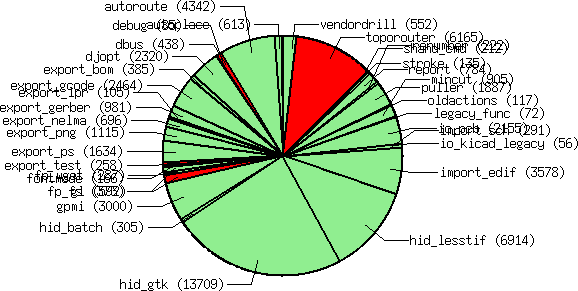
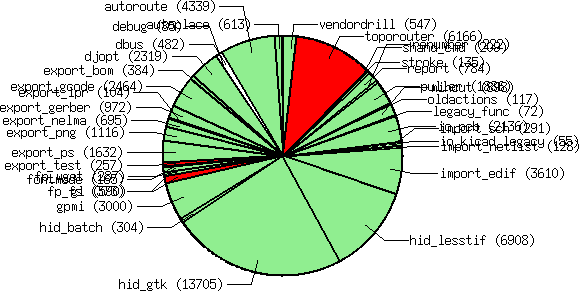
[pcb-rnd] -Update: mods3 charts
git-svn-id: svn://repo.hu/pcb-rnd/trunk@2498 1d61de99-560f-4dba-8957-1e505d42358b

diff --git a/doc-rnd/mods3/index.html b/doc-rnd/mods3/index.html
@@ -63,14 +63,14 @@ Below is a table with the summary of core plugins.
 <td bgcolor="lightgreen"> buildin
 <td> (feature)
 <td> Automatically place elements. 
-<tr><th align=left>autoroute<td>4342
+<tr><th align=left>autoroute<td>4339
 <td bgcolor="lightgreen" > works
 <td bgcolor="lightgreen"> buildin
 <td> (feature)
 <td> Automatically route selected or all rats. This is the original autorouter. 
-<tr><th align=left>dbus<td>438
-<td bgcolor="red" > disabled
-<br> (TODO: needs scconfig support)
+<tr><th align=left>dbus<td>482
+<td  > WIP
+<br> (needs to install the xml?)
 <td bgcolor="red"> disabled
 <td> (feature)
 <td> Remote control PCB using DBUS. 
@@ -79,12 +79,12 @@ Below is a table with the summary of core plugins.
 <td bgcolor="red"> disabled
 <td> (feature)
 <td> Actions that help developer to debug pcb core. These are not in core because end users normally don't need these. As a plugin, due to dynamic loading, it can be dropped on an existing pcb installation with minimal risk of scaring away a reproducible bug. 
-<tr><th align=left>djopt<td>2320
+<tr><th align=left>djopt<td>2319
 <td bgcolor="lightgreen" > works
 <td bgcolor="lightgreen"> buildin
 <td> (feature)
 <td> Various board optimization algorithms. 
-<tr><th align=left>export_bom<td>385
+<tr><th align=left>export_bom<td>384
 <td bgcolor="lightgreen" > works
 <td bgcolor="lightgreen"> buildin
 <td> export
@@ -94,38 +94,38 @@ Below is a table with the summary of core plugins.
 <td bgcolor="lightgreen"> buildin
 <td> export
 <td> Export to gcode 
-<tr><th align=left>export_gerber<td>981
+<tr><th align=left>export_gerber<td>972
 <td bgcolor="lightgreen" > works
 <td bgcolor="lightgreen"> buildin
 <td> export
 <td> Export to gerber 
-<tr><th align=left>export_lpr<td>105
+<tr><th align=left>export_lpr<td>104
 <td bgcolor="lightgreen" > works
 <td bgcolor="lightgreen"> buildin
 <td> export
 <td> Export to lpr (using export_ps to generate postscript) 
-<tr><th align=left>export_nelma<td>696
+<tr><th align=left>export_nelma<td>695
 <td bgcolor="lightgreen" > works
 <td bgcolor="lightgreen"> buildin
 <td> export
 <td> Export to nelma (Numerical capacitance calculator) 
-<tr><th align=left>export_png<td>1115
+<tr><th align=left>export_png<td>1116
 <td bgcolor="lightgreen" > works
 <td bgcolor="lightgreen"> buildin
 <td> export
 <td> Export to png, gif and jpeg 
-<tr><th align=left>export_ps<td>1634
+<tr><th align=left>export_ps<td>1632
 <td bgcolor="lightgreen" > works
 <td bgcolor="lightgreen"> buildin
 <td> export
 <td> Export postscript or embedded postscript. 
-<tr><th align=left>export_test<td>258
+<tr><th align=left>export_test<td>257
 <td bgcolor="red" > disabled
 <br> (work in progress)
 <td bgcolor="lightgreen"> buildin
 <td> export
 <td> A thin layer of code to dump exporter calls for testing the HID exporter API. 
-<tr><th align=left>fontmode<td>166
+<tr><th align=left>fontmode<td>165
 <td bgcolor="lightgreen" > works
 <td bgcolor="lightgreen"> buildin
 <td> (feature)
@@ -140,7 +140,7 @@ Below is a table with the summary of core plugins.
 <td bgcolor="lightgreen"> buildin
 <td> fp
 <td> Footprint: get static (file) footprints from the web, e.g. from http://gedasymbols.org 
-<tr><th align=left>gl<td>592
+<tr><th align=left>gl<td>590
 <td bgcolor="red" > disabled
 <br> (pcb-rnd has no support for opengl.)
 <td bgcolor="red"> disabled
@@ -152,37 +152,42 @@ Below is a table with the summary of core plugins.
 <br> (if gpmi is installed)
 <td> (feature)
 <td> Scriptable plugin system with about 10 scripting languages supported and dynamic load/unload of scripts that can manipulate the GUI, the board, can implement exporters, etc. 
-<tr><th align=left>hid_batch<td>305
+<tr><th align=left>hid_batch<td>304
 <td bgcolor="lightgreen" > works
 <td bgcolor="lightgreen"> buildin
 <td> hid
 <td> HID without GUI; read actions from stdin. 
-<tr><th align=left>hid_gtk<td>13709
+<tr><th align=left>hid_gtk<td>13705
 <td bgcolor="lightgreen" > works
 <td bgcolor="lightgreen"> buildin
 <td> hid
 <td> GUI: the GTK HID. 
-<tr><th align=left>hid_lesstif<td>6914
+<tr><th align=left>hid_lesstif<td>6908
 <td bgcolor="lightgreen" > works
 <td bgcolor="lightgreen"> buildin
 <td> hid
 <td> GUI: the lesstif HID. 
-<tr><th align=left>import_edif<td>3578
+<tr><th align=left>import_edif<td>3610
 <td bgcolor="lightgreen" > works
 <td bgcolor="lightgreen"> buildin
 <td> import
-<td> Import code for netlists in the EDIF format. 
+<td> Import plugin for netlists in the EDIF format. 
+<tr><th align=left>import_netlist<td>128
+<td bgcolor="lightgreen" > works
+<td bgcolor="lightgreen"> buildin
+<td> import
+<td> Import plugin for netlists in the classic pcb netlist format. 
 <tr><th align=left>import_sch<td>291
 <td bgcolor="lightgreen" > works
 <td bgcolor="lightgreen"> buildin
 <td> import
 <td> Imports element and netlist data from the schematics (or some other source). 
-<tr><th align=left>io_kicad_legacy<td>56
+<tr><th align=left>io_kicad_legacy<td>55
 <td  > work-in-progress
 <td bgcolor="red"> disabled
 <td> io
 <td> Load and save the design and elements in Kicad's legacy format. 
-<tr><th align=left>io_pcb<td>2155
+<tr><th align=left>io_pcb<td>2136
 <td bgcolor="lightgreen" > works
 <td bgcolor="lightgreen"> buildin
 <td> io
@@ -192,7 +197,7 @@ Below is a table with the summary of core plugins.
 <td bgcolor="lightgreen"> buildin
 <td> (lib)
 <td> Random collection of old/obsolete (legacy) functions. 3rd party plugins may depend on them. This module implements C functions and variables and does not register actions or flags. 
-<tr><th align=left>mincut<td>905
+<tr><th align=left>mincut<td>898
 <td bgcolor="lightgreen" > works
 <td bgcolor="lightgreen"> buildin
 <td> (feature)
@@ -202,7 +207,7 @@ Below is a table with the summary of core plugins.
 <td bgcolor="red"> disabled
 <td> (feature)
 <td> Random collection of old/obsolete actions. Bell(): audible feedback; DumpLibrary(): print footprint library on stdout; a set of debug actions useful for writing pcb scripts: Debug(), DebugXY(), Return(). Old plugin actions to toggle or set settings that are now accessible via the unified config system (vendordrill, djopt) 
-<tr><th align=left>puller<td>1887
+<tr><th align=left>puller<td>1886
 <td bgcolor="lightgreen" > works
 <td bgcolor="lightgreen"> buildin
 <td> (feature)
@@ -217,7 +222,7 @@ Below is a table with the summary of core plugins.
 <td bgcolor="lightgreen"> buildin
 <td> (feature)
 <td> Report() and ReportObject() actions - print a report about design objects. 
-<tr><th align=left>shand_cmd<td>212
+<tr><th align=left>shand_cmd<td>209
 <td bgcolor="lightgreen" > works
 <td bgcolor="lightgreen"> buildin
 <td> (feature)
@@ -227,13 +232,13 @@ Below is a table with the summary of core plugins.
 <td bgcolor="red"> disabled
 <td> (feature)
 <td> Gesture recognition with libstroke. 
-<tr><th align=left>toporouter<td>6165
+<tr><th align=left>toporouter<td>6166
 <td bgcolor="red" > fails
 <br> (infinite loop in gts)
 <td bgcolor="red"> disabled
 <td> (feature)
 <td> Automatically route selected or all rats using a topological algorithm. This is the new autorouter from 2009. 
-<tr><th align=left>vendordrill<td>552
+<tr><th align=left>vendordrill<td>547
 <td bgcolor="lightgreen" > works
 <td bgcolor="lightgreen"> buildin
 <td> (feature)
